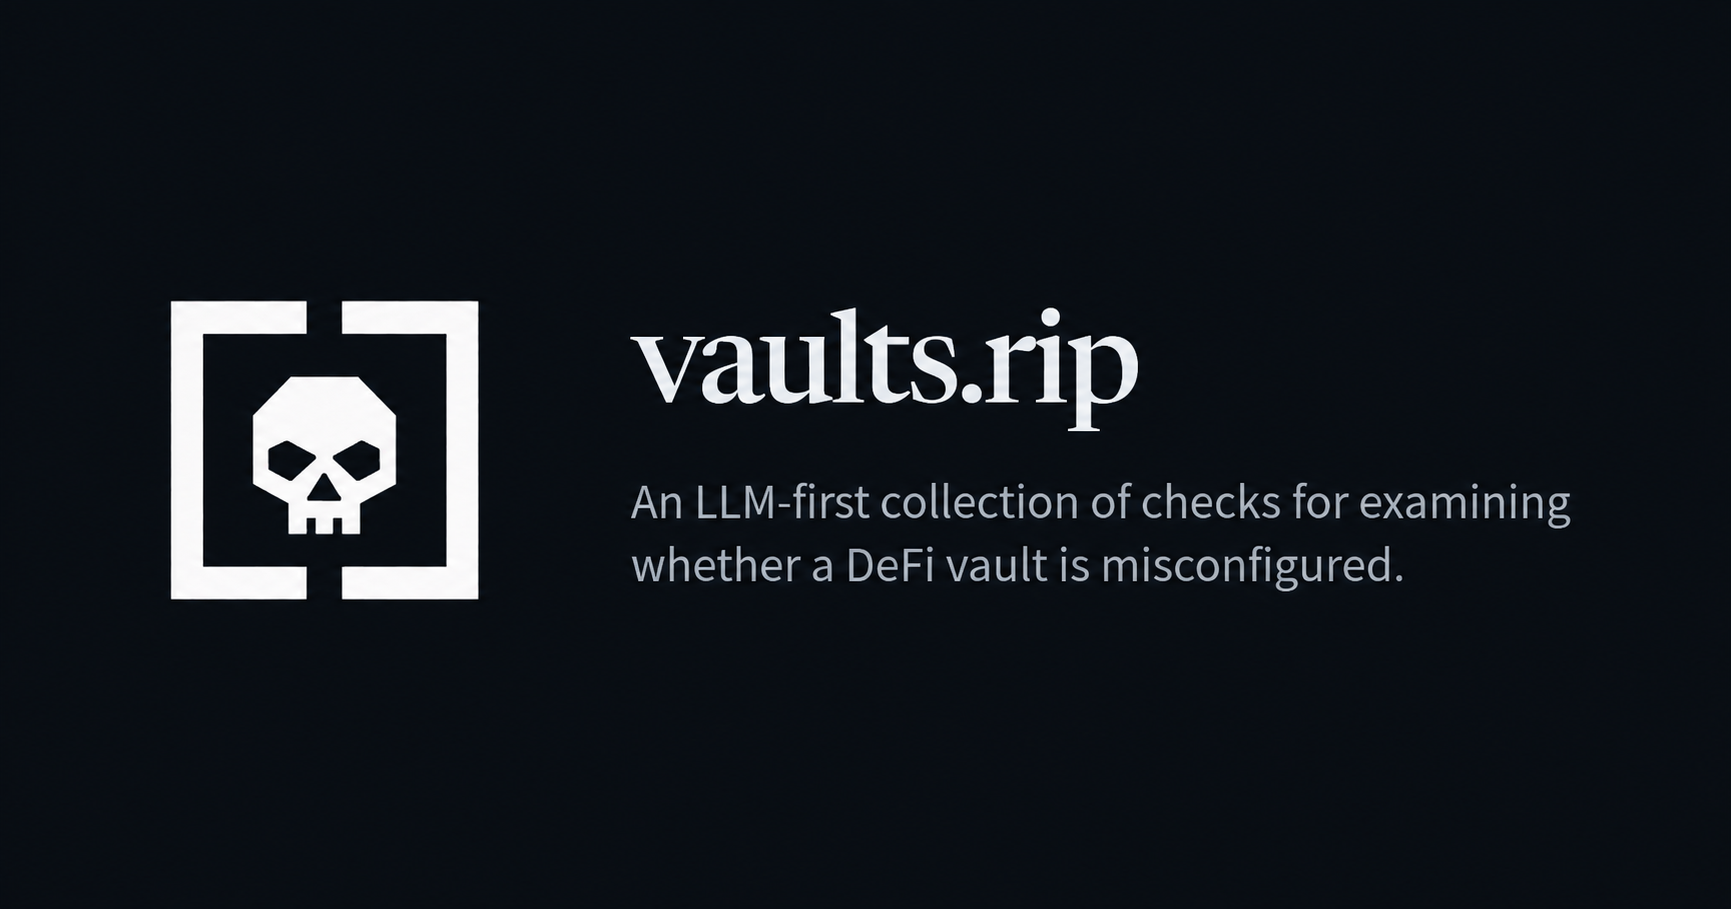
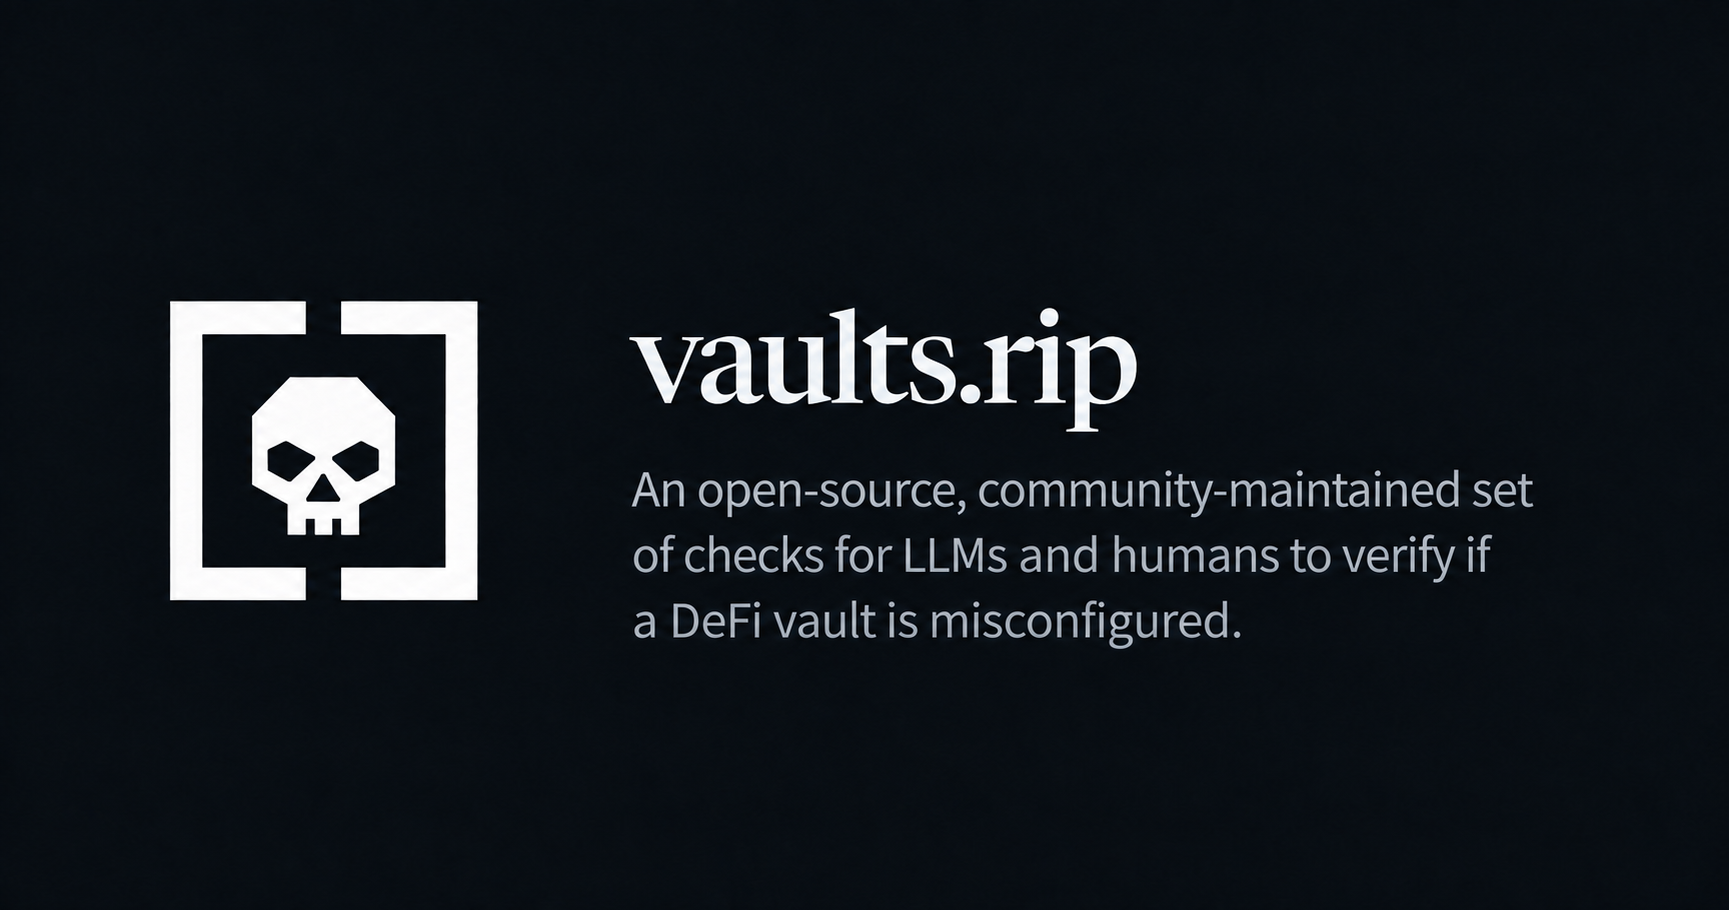
new design

Changed region(s): [[0.3436, 0.5237, 0.9057, 0.7085], [0.3748, 0.3696, 0.4685, 0.4312]]

diff --git a/README.md b/README.md
@@ -1,5 +1,5 @@
 <p align="center">
-  <img src="./design/vaults-rip-social-preview.png" alt="vaults.rip — An LLM-first collection of checks for examining DeFi vault configuration." width="720" />
+  <img src="./design/vaults-rip-social-preview.png" alt="vaults.rip — An open-source, community-maintained set of checks for LLMs and humans to verify if a DeFi vault is misconfigured." width="720" />
 </p>
 
 ## Why

diff --git a/design/DESIGN_SPEC.md b/design/DESIGN_SPEC.md
@@ -4,7 +4,7 @@ These rules are part of the product specification. Follow them when creating or 
 
 ## 1. What this site is
 
-vaults.rip is a technical knowledge base for DeFi vault and market risk.
+vaults.rip is an open-source, community-maintained set of checks for LLMs and humans to verify if a DeFi vault is misconfigured.
 
 It is not:
 - a SaaS product

diff --git a/content/index.md b/content/index.md
@@ -1,6 +1,6 @@
 # About
 
-vaults.rip is an LLM-first collection of checks for examining whether a DeFi vault is misconfigured.
+vaults.rip is an open-source, community-maintained set of checks for LLMs and humans to verify if a DeFi vault is misconfigured.
 
 ## Why
 
